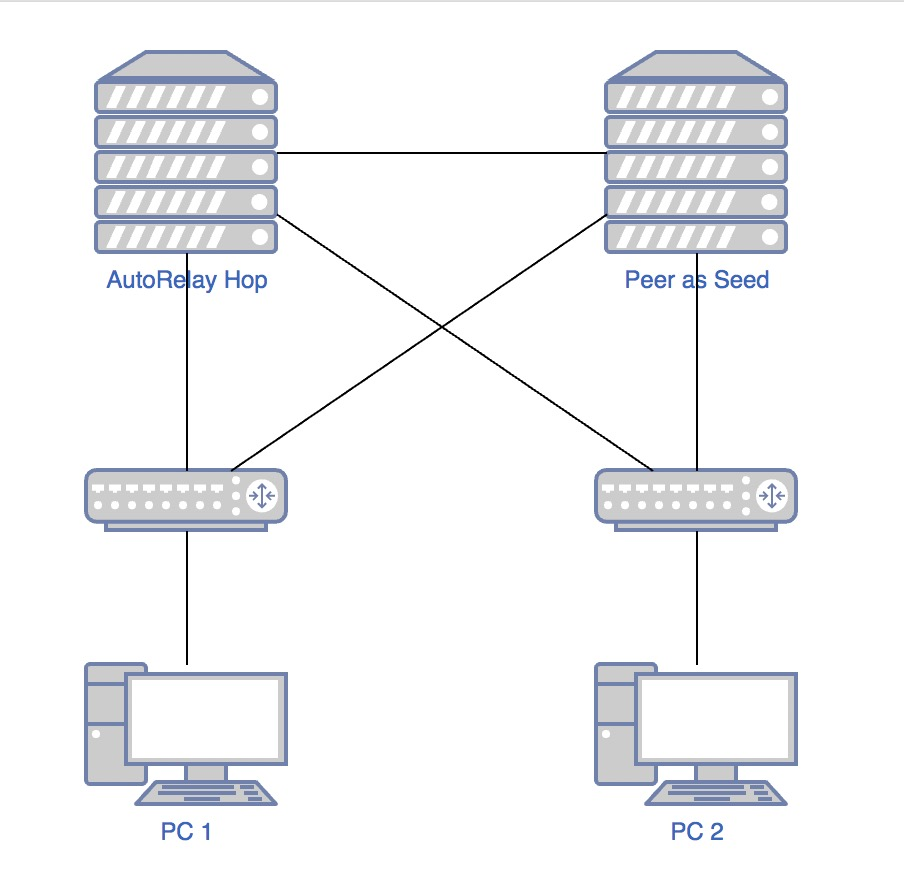
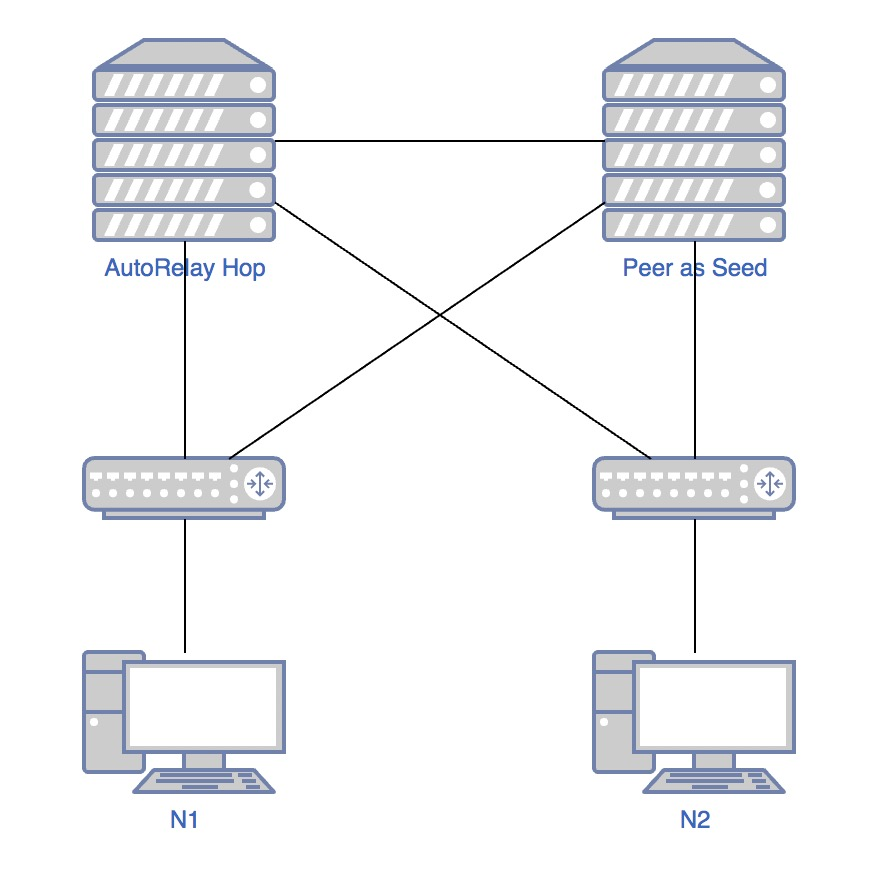
modify doc

diff --git a/docs/software/Relay 介绍.md b/docs/software/Relay 介绍.md
@@ -8,7 +8,7 @@ Relay 介绍
 
    实验准备：
 
-    - 准备两台公网机器（AutoRelay Hop简称Hop 和 Peer As Seed简称Seed）和两台处于不同网段的局域网机器（PC1，PC2），其中 Hop与Seed可以ping通，PC1与Hop和Seed分别可以ping通，PC2与Hop和Seed可以ping通，PC1和PC2不能ping通。其拓扑图如下：
+    - 准备两台公网机器（AutoRelay Hop简称Hop 和 Peer As Seed简称Seed）和两台处于不同网段的局域网机器（N1，N2），其中 Hop与Seed可以ping通，N1与Hop和Seed分别可以ping通，N2与Hop和Seed可以ping通，N1和N2不能ping通。其拓扑图如下：
 
       <img src="./images/autorelaytopology.jpg" alt="图一" style="zoom:50%;" />
 
@@ -30,11 +30,11 @@ Relay 介绍
    - 启动Seed；
 
    - 启动Hop；
-   - 启动PC1、PC2；
+   - 启动N1、N2；
    - 等待30秒钟，待日志打印的地址中出现 “circuit” 字样后可以进行下一步操作；
    - 从任意一台机器控制台进行输入，其余三台机器均可以接收到消息；
-   - 停止Seed，从PC1控制台发送消息，PC2可以接收到。说明种子只起引导作用，在网络建立起来之后可以随时关停掉；
-   - 停止Hop，从PC1（或PC2）控制台发送消息，PC2（或PC1）无法接收到，说明PC1和PC2是通过中继进行通信的，停止中继其通信通道被中断。
+   - 停止Seed，从N1控制台发送消息，N2可以接收到。说明种子只起引导作用，在网络建立起来之后可以随时关停掉；
+   - 停止Hop，从N1（或N2）控制台发送消息，N2（或N1）无法接收到，说明N1和N2是通过中继进行通信的，停止中继其通信通道被中断。
 
 2. 原理说明
 
@@ -116,7 +116,7 @@ Relay 介绍
 
    - libp2p的架构图如下，其中种子节点作用于Peer Routing，relay作用于transport，autorelay作用于content routing和transport。
 
-     <img src="./images/libp2p-architecture.jpg" style="zoom:48%;" />
+     <img src="./images/libp2p_architecture.jpg" style="zoom:48%;" />
 
    
 
